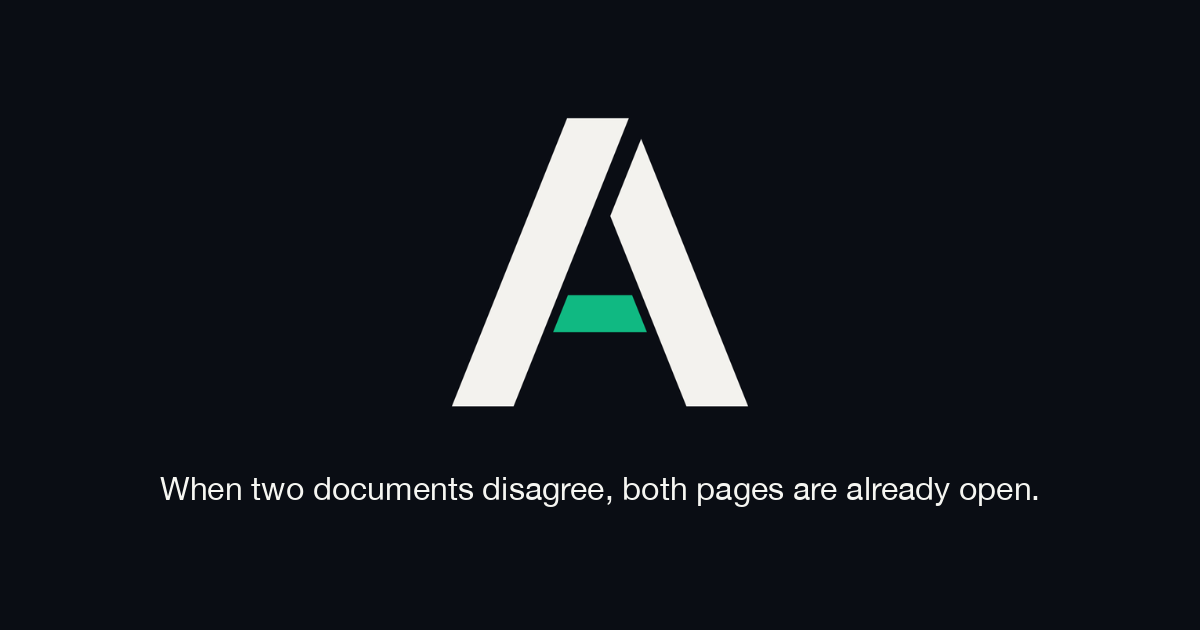
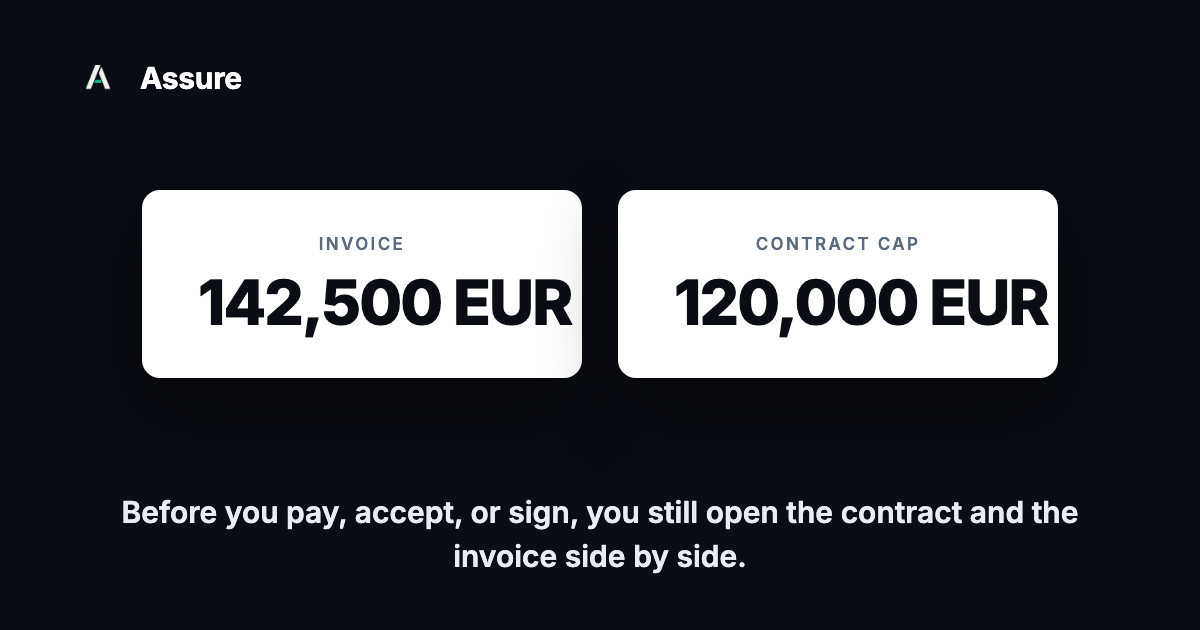
content: OG proof image + contact-us rebuild to the homepage standard
- og-image.png redesigned: side-by-side proof (142,500 EUR invoice vs 120,000 EUR contract cap), Assure wordmark, pain-first sentence; 1200x630, replaces the wordmark-only image
- /contact-us/ rebuilt: pain-first lead, existing form, written "Yes, proceed" note (1 workflow, limited sample cases), one CTA; sales@getassureai.com -> sales@assureproof.com and the Direct card dropped
- contact.lead/note/meta.contact keys added in en.json; stale translations removed so they fall back to English (#122)
- verified: no getassureai references in any visitor-facing dist page, canonicals on assureproof.com, 18/18 tests pass, LANDING_CSS unchanged (no new styles)

diff --git a/marketing/templates/contact.html b/marketing/templates/contact.html
@@ -37,7 +37,14 @@
     <style>
         .contact-main { padding: var(--space-12) 0; }
         .contact-main .section-title { max-width: 46rem; margin: 0 auto var(--space-4); }
-        .contact-lead { max-width: 42rem; margin: 0 auto var(--space-8); color: #334155; font-size: 1.0625rem; line-height: 1.6; }
+        .contact-lead { max-width: 46rem; margin: 0 auto var(--space-3); color: #334155; font-size: 1.0625rem; line-height: 1.6; }
+        .contact-note {
+            max-width: 46rem;
+            margin: 0 auto var(--space-8);
+            color: #0a0a0a;
+            font-weight: 600;
+            font-size: 0.9375rem;
+        }
         .contact-grid {
             display: grid;
             grid-template-columns: 1fr 1fr;
@@ -88,10 +95,11 @@
     <main class="contact-main">
         <div class="container" style="text-align: center;">
             <h1 class="section-title" data-i18n="contact.title">{{ strings.get('contact.title', 'Contact') }}</h1>
-            <p class="contact-lead" data-i18n="contact.lead">{{ strings.get('contact.lead', 'Tell us the workflow you want checked. We reply with a short scope note. A written “Yes, proceed” starts the assessment.') }}</p>
+            <p class="contact-lead" data-i18n="contact.lead">{{ strings.get('contact.lead', 'Before you pay, accept, or sign, you still open the contract and the invoice side by side. Tell us the workflow you want checked. We reply with a short scope note.') }}</p>
+            <p class="contact-note" data-i18n="contact.note">{{ strings.get('contact.note', 'Written “Yes, proceed” required. 1 workflow. Limited sample cases.') }}</p>
 
             <div class="contact-grid">
-                <div class="contact-card">
+                <div class="contact-card" style="grid-column: 1 / -1; max-width: 40rem; margin: 0 auto;">
                     <h2 data-i18n="contact.form_title">{{ strings.get('contact.form_title', 'Request form') }}</h2>
                     <form class="contact-form" id="contact-form" novalidate>
                         <input type="text" name="company_website" id="cf-website" tabindex="-1" autocomplete="off" hidden aria-hidden="true">
@@ -117,13 +125,7 @@
                         <p class="contact-error" id="contact-error" hidden></p>
                     </form>
                     <p id="contact-done" data-i18n="contact.done" hidden>{{ strings.get('contact.done', 'Thanks, we will be in touch.') }}</p>
-                    <p class="contact-alt">{{ strings.get('contact.alt', 'Prefer email?') }} <a class="contact-email" href="mailto:sales@getassureai.com">sales@getassureai.com</a></p>
-                </div>
-
-                <div class="contact-card">
-                    <h2 data-i18n="contact.direct_title">{{ strings.get('contact.direct_title', 'Direct') }}</h2>
-                    <p data-i18n="contact.direct_body">{{ strings.get('contact.direct_body', 'Write to us directly and include your use case, document volume, and timeline. Attachments are fine.') }}</p>
-                    <a class="contact-email" href="mailto:sales@getassureai.com?subject=Enterprise%20demo%20request">sales@getassureai.com</a>
+                    <p class="contact-alt">{{ strings.get('contact.alt', 'Prefer email?') }} <a class="contact-email" href="mailto:sales@assureproof.com">sales@assureproof.com</a></p>
                 </div>
             </div>
         </div>
